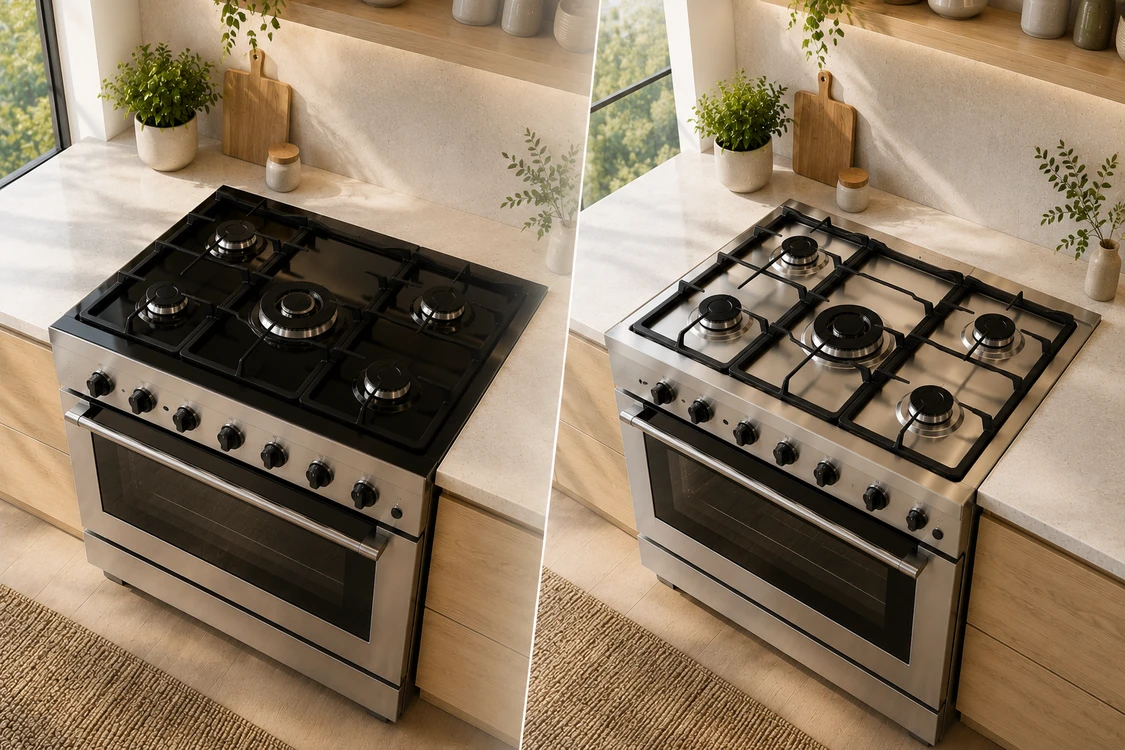
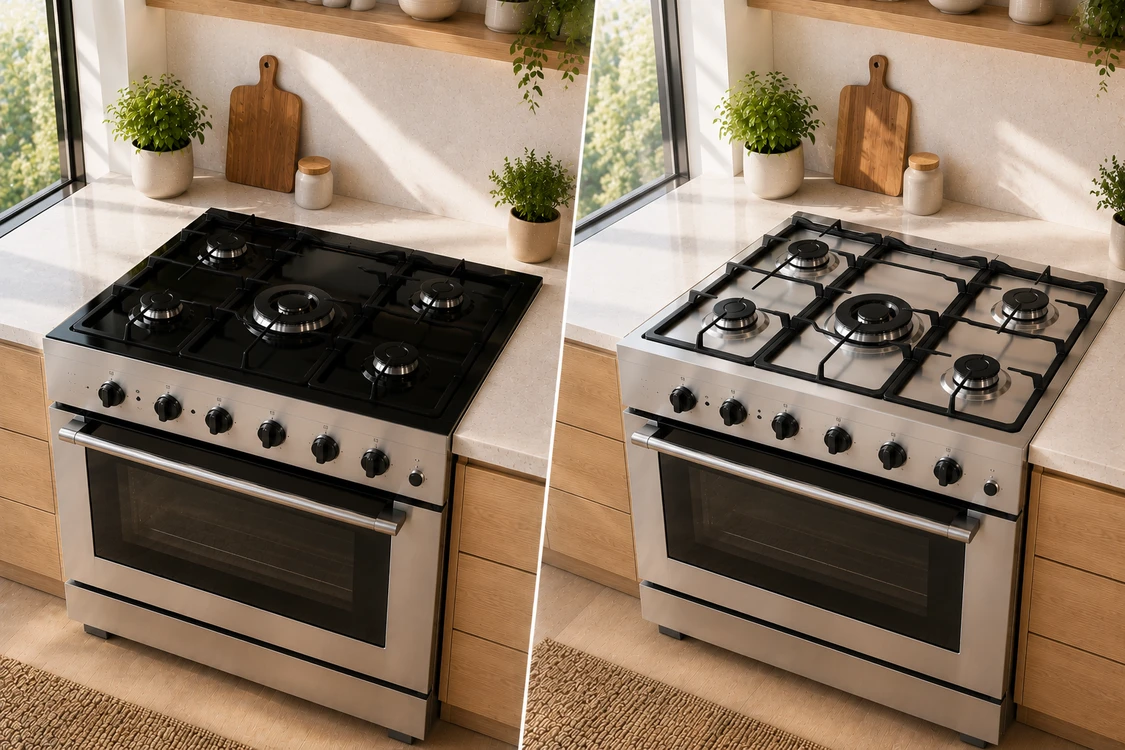
troca de imagem

diff --git a/src/data/blogThumbnailAssets.ts b/src/data/blogThumbnailAssets.ts
@@ -1,5 +1,6 @@
 import type { AstroRasterImport } from '../types/astro-image';
 import { BLOG_THUMBNAIL } from './editorialImageSpecs';
+import fogaoVidroOuInoxBlogPremium from '../assets/images/blog/comparativos/fogao-mesa-de-vidro-ou-inox-blog-premium.webp';
 
 /**
  * Miniaturas do blog — ver `BLOG_THUMBNAIL` em `editorialImageSpecs.ts`
@@ -18,6 +19,15 @@ for (const path of Object.keys(raw)) {
 	if (m?.[1]) {
 		byPostId[m[1]] = raw[path];
 	}
+}
+
+/** Imports explícitos — garantem HMR e build quando o glob não recarrega subpastas novas. */
+const explicitThumbnails: Record<string, AstroRasterImport> = {
+	'fogao-mesa-de-vidro-ou-inox': fogaoVidroOuInoxBlogPremium,
+};
+
+for (const [postId, asset] of Object.entries(explicitThumbnails)) {
+	byPostId[postId] = asset;
 }
 
 export function getBlogThumbnailAsset(postId: string): AstroRasterImport | undefined {